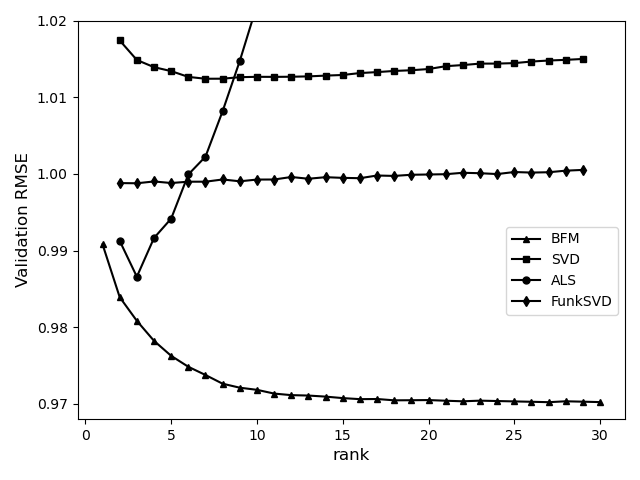
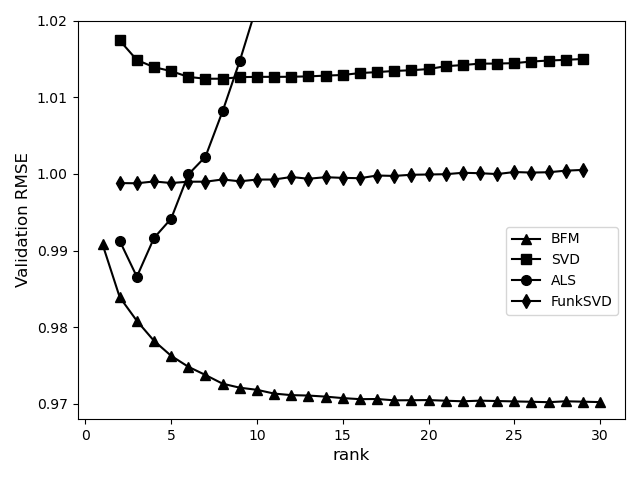
Updated readability for plot

diff --git a/plots/generate_plots.py b/plots/generate_plots.py
@@ -147,11 +147,11 @@ def generate_rank_experiments_plot():
      # plt.savefig("./plots/BFM_ranks.png")
      # plt.cla()
 
-     plt.plot([t[0] for t in val_bfm], [t[1] for t in val_bfm],"-^", markersize=5, label = 'BFM', color="k")
-     plt.plot([t[0] for t in val_svd], [t[1] for t in val_svd],"-s", markersize=5, label = 'SVD' , color="k")#, markevery=[5])
+     plt.plot([t[0] for t in val_bfm], [t[1] for t in val_bfm],"-^", markersize=7, label = 'BFM', color="k")
+     plt.plot([t[0] for t in val_svd], [t[1] for t in val_svd],"-s", markersize=7, label = 'SVD' , color="k")#, markevery=[5])
      #plt.plot([t[0] for t in val_nmf], [t[1] for t in val_nmf], '-x', label = 'NMF', markevery=[9])
-     plt.plot([t[0] for t in val_als], [t[1] for t in val_als], '-o', markersize=5, label = 'ALS' ,  color="k" )#, markevery=[1])
-     plt.plot([t[0] for t in val_funk], [t[1] for t in val_funk],'-d', markersize=5, label = 'FunkSVD',  color="k")#, markevery=[0])
+     plt.plot([t[0] for t in val_als], [t[1] for t in val_als], '-o', markersize=7, label = 'ALS' ,  color="k" )#, markevery=[1])
+     plt.plot([t[0] for t in val_funk], [t[1] for t in val_funk],'-d', markersize=7, label = 'FunkSVD',  color="k")#, markevery=[0])
      
      # plt.annotate("r=7", (6.4, 1.01))
      # plt.annotate("r=11", (10.4, 1.01))
